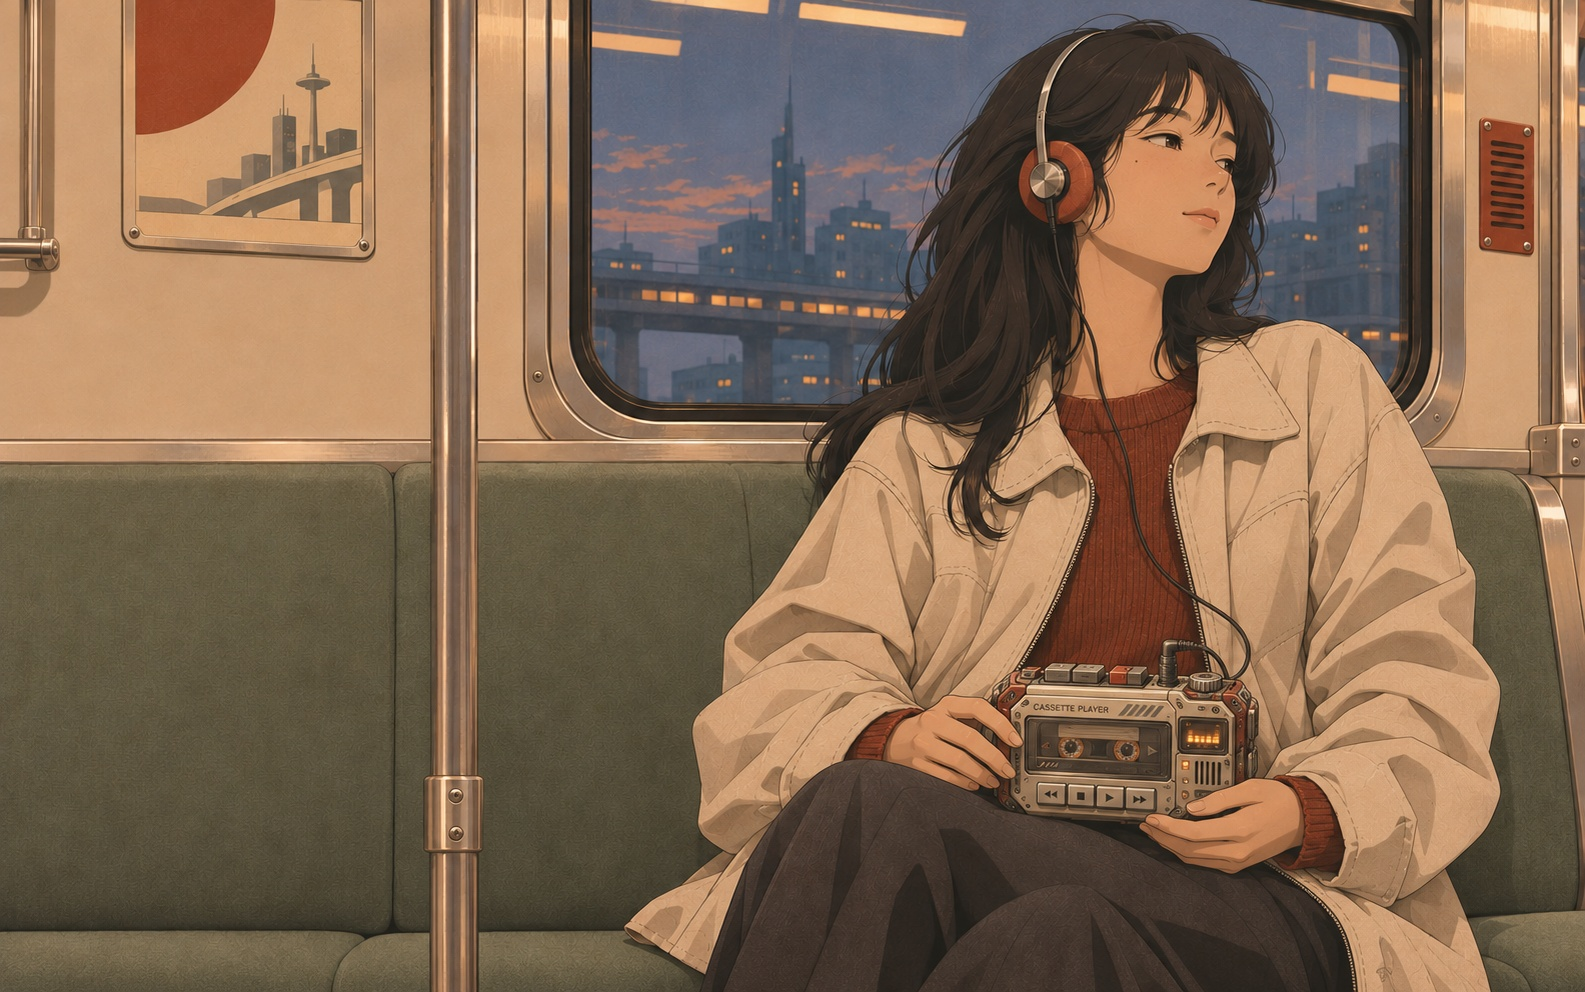
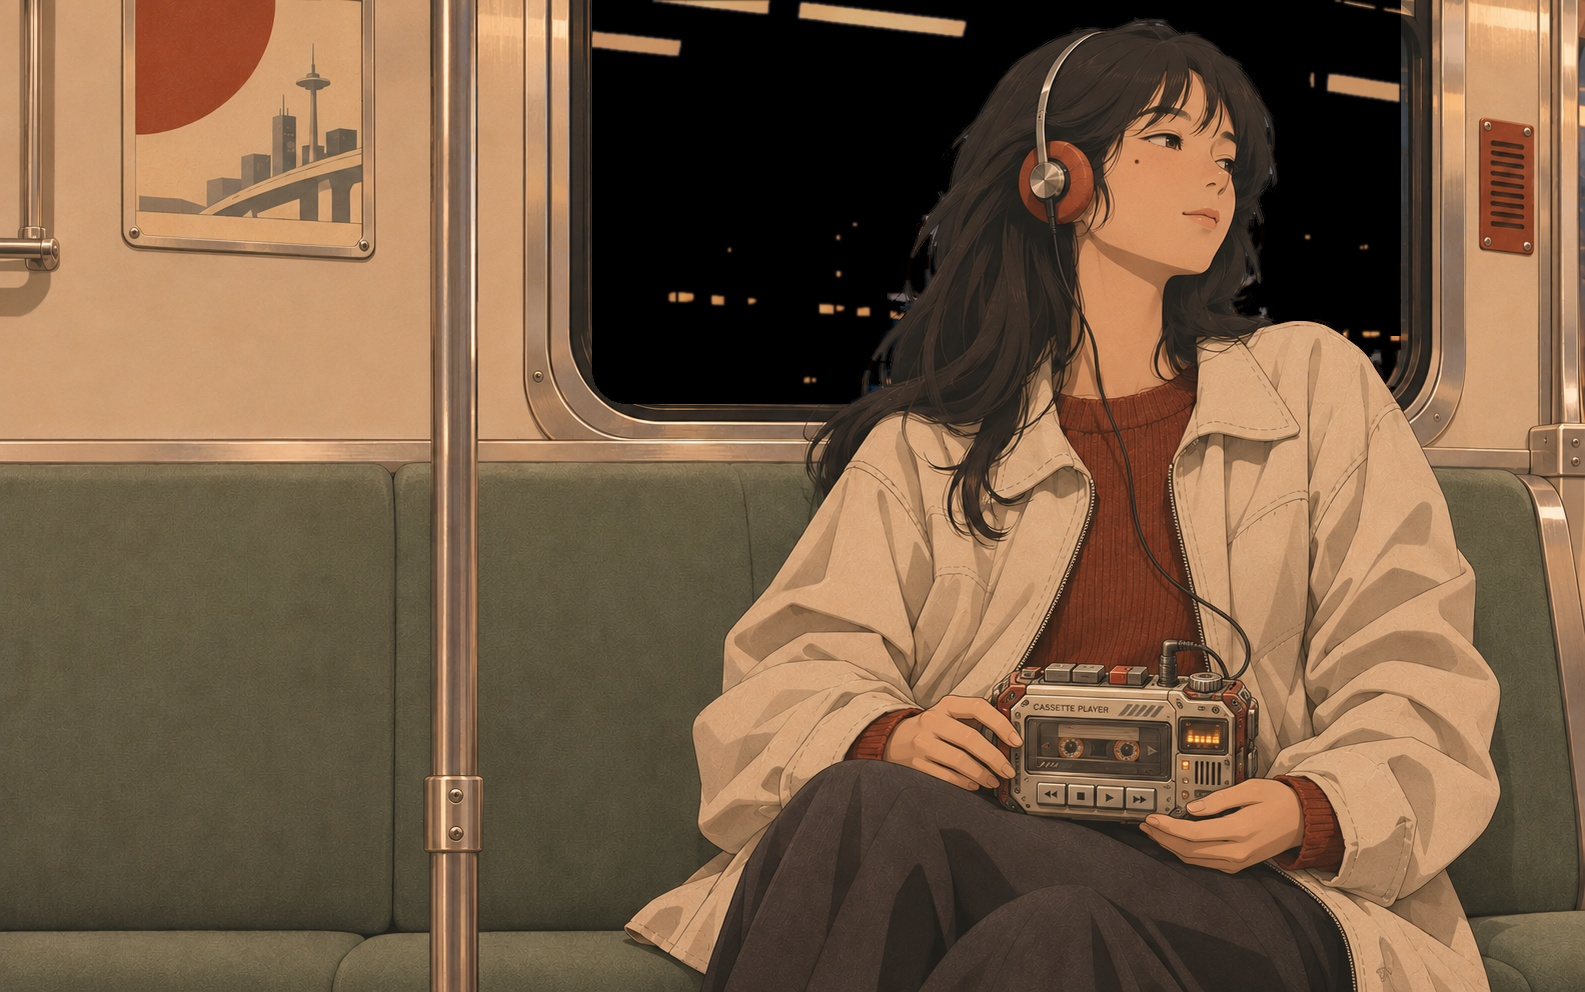
Retro Futurism wallpaper: the car sways gently and now and then runs over a rail joint; her mole clearer
Claude-Session: https://claude.ai/code/session_015VvhJ21Y4bjWDEYJNoFXMP

Changed region(s): [[0.371, 0.0, 0.8965, 0.4062]]

diff --git a/themes/retro-futurism/home/.config/quickshell/modules/Backdrop.qml b/themes/retro-futurism/home/.config/quickshell/modules/Backdrop.qml
@@ -35,10 +35,67 @@ PanelWindow {
         smooth: true
         cache: false
     }
+    // ---- the ride: the car sways a little, always, and now and then runs
+    // over a rail joint. Seconds of the ride so far, counted only while it
+    // can be seen.
+    QtObject {
+        id: ride
+        property real t: 0
+        property real bumpAt: -100          // when the car last met a joint
+        readonly property bool on: !win.ownPicture && !scene.hidden
+
+        // the sway: slow waves of different lengths, so it never falls
+        // into a beat (screen pixels; degrees)
+        readonly property real swayX: !Settings.sway ? 0
+            : 1.6 * Math.sin(t * 0.722) + 0.7 * Math.sin(t * 1.611 + 1.3)
+        readonly property real swayY: !Settings.sway ? 0
+            : 1.1 * Math.sin(t * 0.997 + 0.4) + 0.5 * Math.sin(t * 2.327 + 2.1)
+        readonly property real swayR: !Settings.sway ? 0 : 0.08 * Math.sin(t * 0.576 + 0.8)
+
+        // a joint: each axle gives a short jolt that dies away in a moment;
+        // two axles on the front bogie, then two on the back one
+        function jolt(s) {
+            if (s < 0 || s > 0.6) return 0;
+            return Math.exp(-s / 0.11) * Math.sin(2 * Math.PI * 9 * s);
+        }
+        readonly property real bump: {
+            const s = t - bumpAt;
+            if (s > 2) return 0;
+            return 4.0 * jolt(s) + 3.2 * jolt(s - 0.15) + 3.5 * jolt(s - 0.84) + 2.7 * jolt(s - 0.99);
+        }
+    }
+    FrameAnimation {
+        running: ride.on
+        onTriggered: ride.t += Math.min(frameTime, 0.1)
+    }
+    Timer {
+        // the next joint: somewhere between 18 and 45 seconds on
+        running: ride.on && Settings.bumps
+        repeat: true
+        interval: 30000
+        onTriggered: {
+            ride.bumpAt = ride.t;
+            interval = 18000 + Math.random() * 27000;
+        }
+    }
+
     Item {
         id: scene
         anchors.fill: parent
         visible: !win.ownPicture
+
+        // nothing of it to see: a fullscreen window, or one over the whole glass
+        readonly property bool hidden: Hypr.fullscreen
+            || Hypr.windows.some(w => w.x <= glass.x && w.y <= glass.y
+                                   && w.x + w.w >= glass.x + glass.width
+                                   && w.y + w.h >= glass.y + glass.height)
+
+        // the car moves; a touch larger than the screen, so no edge shows
+        scale: 1.012
+        transform: [
+            Translate { x: ride.swayX + ride.bump * 0.25; y: ride.swayY + ride.bump },
+            Rotation { origin.x: scene.width / 2; origin.y: scene.height / 2; angle: ride.swayR + ride.bump * 0.02 }
+        ]
 
         // the picture's own pixels (1585 x 992) to the screen, as
         // PreserveAspectCrop lays it
@@ -60,31 +117,31 @@ PanelWindow {
             // its viaduct level with the old one, at y 300)
             readonly property real loopW: 1580 * 0.862 * scene.k
             readonly property real loopH: 603 * 0.862 * scene.k
-            readonly property bool still: Settings.windowSeconds <= 0
-                // nothing to see: a fullscreen window, or one over the whole glass
-                || Hypr.fullscreen
-                || Hypr.windows.some(w => w.x <= glass.x && w.y <= glass.y
-                                       && w.x + w.w >= glass.x + glass.width
-                                       && w.y + w.h >= glass.y + glass.height)
-            Row {
-                id: view
-                y: (300 - 376 * 0.862) * scene.k
-                Repeater {
-                    model: 2
-                    Image {
-                        width: glass.loopW; height: glass.loopH
-                        source: Settings.art + "/window-view.jpg"
-                        fillMode: Image.Stretch
-                        asynchronous: true
-                        smooth: true
+            Item {
+                // the city is far off: it moves less than the car round it
+                x: -0.65 * (ride.swayX + ride.bump * 0.25)
+                y: -0.65 * (ride.swayY + ride.bump)
+                width: glass.width; height: glass.height
+                Row {
+                    id: view
+                    y: (300 - 376 * 0.862) * scene.k
+                    Repeater {
+                        model: 2
+                        Image {
+                            width: glass.loopW; height: glass.loopH
+                            source: Settings.art + "/window-view.jpg"
+                            fillMode: Image.Stretch
+                            asynchronous: true
+                            smooth: true
+                        }
                     }
-                }
-                NumberAnimation on x {
-                    from: 0; to: -glass.loopW
-                    duration: Math.max(1, Settings.windowSeconds) * 1000
-                    loops: Animation.Infinite
-                    running: !win.ownPicture
-                    paused: running && glass.still
+                    NumberAnimation on x {
+                        from: 0; to: -glass.loopW
+                        duration: Math.max(1, Settings.windowSeconds) * 1000
+                        loops: Animation.Infinite
+                        running: !win.ownPicture
+                        paused: running && (Settings.windowSeconds <= 0 || scene.hidden)
+                    }
                 }
             }
             // the glass itself: a faint cool cast over what lies outside

diff --git a/themes/retro-futurism/home/.config/quickshell/services/Settings.qml b/themes/retro-futurism/home/.config/quickshell/services/Settings.qml
@@ -32,6 +32,9 @@ Singleton {
     // the city outside the train's window: seconds for the view to come
     // round once (0 holds it still)
     readonly property int windowSeconds: get("windowSeconds", 90)
+    // the car's gentle sway, and the jolt of a rail joint now and then
+    readonly property bool sway: get("sway", true)
+    readonly property bool bumps: get("bumps", true)
 
     FileView {
         id: file

diff --git a/themes/retro-futurism/tools/make_wallpaper_front.py b/themes/retro-futurism/tools/make_wallpaper_front.py
@@ -12,6 +12,12 @@ import numpy as np
 from collections import deque
 src, outFront, outCheck = sys.argv[1:4]   # front (with the reflections), a check picture
 im = Image.open(src).convert('RGB'); full = np.asarray(im).astype(float)
+# her mole, a little clearer (as on the lock screen): a soft dark-brown dot
+def mole(img, cx, cy, r=2.1, strength=0.85, colour=(82, 40, 27)):
+    yy, xx = np.mgrid[0:img.shape[0], 0:img.shape[1]]
+    a = np.clip((r + 0.8 - np.hypot(xx - cx, yy - cy)) / 1.6, 0, 1) * strength
+    img[:] = img * (1 - a[..., None]) + np.array(colour, float) * a[..., None]
+mole(full, 1136.4, 161.2)
 X0, Y0, X1, Y1 = 560, 0, 1440, 440                 # the window, and a margin
 I = full[Y0:Y1, X0:X1]; H, W, _ = I.shape
 R, G, B = I[..., 0], I[..., 1], I[..., 2]

diff --git a/themes/retro-futurism/README.md b/themes/retro-futurism/README.md
@@ -16,6 +16,12 @@ Gadgets in steel, cream and sage with e-ink screens.
   (`"windowSeconds"` in `~/.config/ultra/retro-futurism/settings.json`;
   0 holds it still) and stops while a window is fullscreen or covers the
   whole glass.
+- **The ride**: the car sways very slightly all the time (slow waves that
+  never fall into a beat; the city outside, being far off, moves less than
+  the car), and every 18 to 45 seconds it runs over a rail joint: da-dum,
+  da-dum, a short jolt from each axle of the front bogie and then the back
+  one. `"sway"` and `"bumps"` (true / false) in settings.json.
+- Her mole is a little clearer, on the wallpaper as on the lock screen.
 - **Lock screen**: her room at night. The Suisei clock on the night stand
   is live: the time (the colon blinks each second) and the date in its
   dot-matrix strip. The rest of the picture stays still. Type the password
